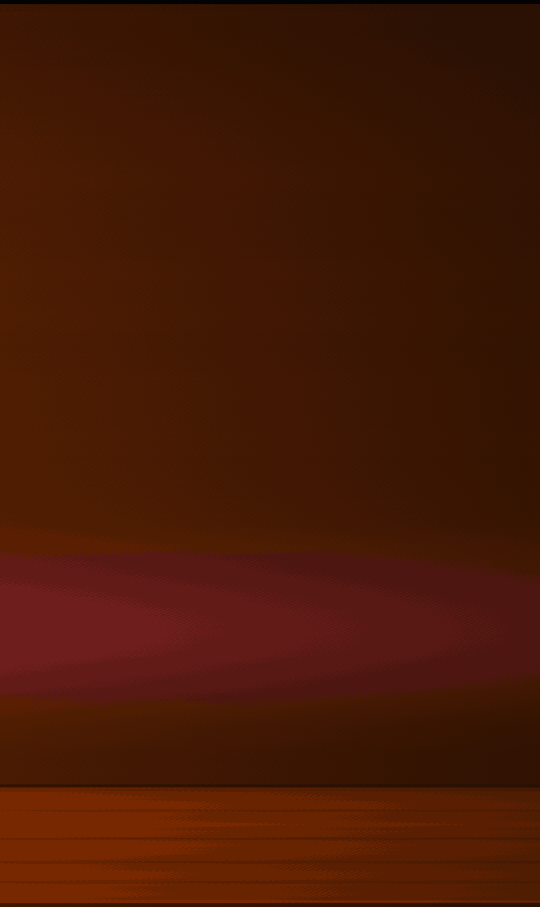
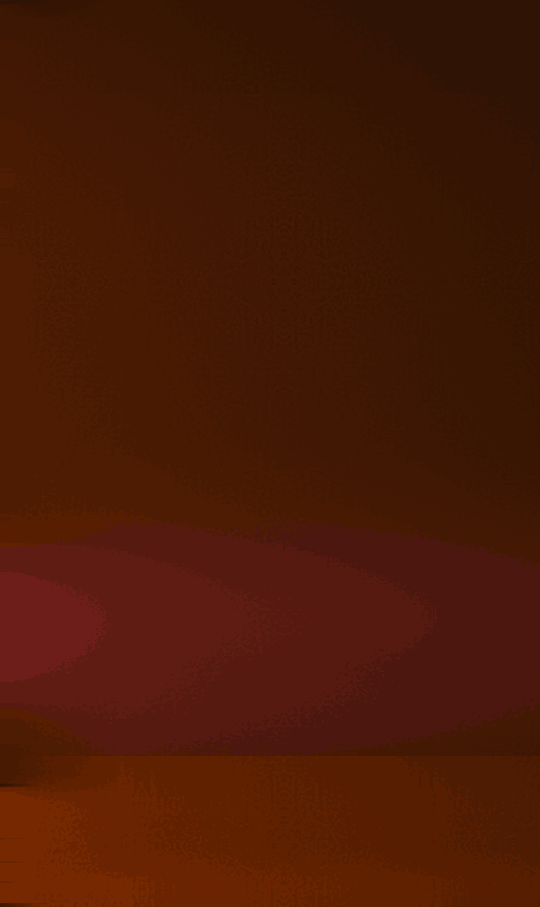
No stretched sides: plain closet walls past the edges, and wide windows fill with the room
The side walls past the room no longer drag each row's edge pixels outward (which made streaks): the colour is smoothed down the rows and settles to an even wall with real 2D grain from a clean patch of the wall. A wide window now fills its width with the room itself, trimming up to 8% off the desk's front edge, before any side wall shows.

Changed region(s): [[0.0593, 0.8335, 1.0, 0.8953], [0.0, 0.0, 1.0, 0.0309], [0.0296, 0.9879, 1.0, 1.0]]

diff --git a/scripts/mockup-room.js b/scripts/mockup-room.js
@@ -77,15 +77,38 @@ function lampOff(img) {
   return out;
 }
 
-/** The closet's side walls and the desk carried on past the edges: each row's edge colour, darkening outward. */
+/**
+ * The closet's side walls and the desk carried on past the edges, without smearing: each row's colour at the
+ * edge, smoothed down the rows (so no row's dither turns into a stripe), darkening outward, with real 2D grain
+ * from a clean patch of the left side wall laid over it (its fine texture only, the patch's light taken off).
+ */
 function side(img, left) {
-  const out = Buffer.alloc(SW * H * 3);
-  for (let y = 0; y < H; y++) {
-    const e = [0, 0, 0];
-    for (let k = 0; k < 6; k++) { const x = left ? k : W - 1 - k; for (let c = 0; c < 3; c++) e[c] += img[(y * W + x) * 3 + c] / 6; }
-    for (let k = 0; k < SW; k++) {
-      const X = left ? SW - 1 - k : k, d = 1 - 0.35 * Math.min(1, k / SW);
-      for (let c = 0; c < 3; c++) out[(y * SW + X) * 3 + c] = clamp(Math.round(e[c] * d + hash(k, y, left ? 1 : 2) * 4), 0, 255);
+  const out = Buffer.alloc(SW * H * 3), deskY = Math.round(DESK_Y * K);
+  const at = (x, y, c) => img[(clamp(y, 0, H - 1) * W + clamp(x, 0, W - 1)) * 3 + c];
+  // the edge colour per row
+  const edge = [];
+  for (let y = 0; y < H; y++) { const e = [0, 0, 0]; for (let k = 0; k < 8; k++) { const x = left ? k : W - 1 - k; for (let c = 0; c < 3; c++) e[c] += at(x, y, c) / 8; } edge.push(e); }
+  // smoothed down the rows, the wall and the desk apart
+  const smooth = (R) => edge.map((_, y) => {
+    const s = [0, 0, 0]; let n = 0;
+    for (let k = y - R; k <= y + R; k++) { if (k < 0 || k >= H || (k < deskY) !== (y < deskY)) continue; for (let c = 0; c < 3; c++) s[c] += edge[k][c]; n++; }
+    return s.map((v) => v / n);
+  });
+  // near the edge the wall follows the room's own light; a little way out it's an even, plain wall
+  const near = smooth(14), far = smooth(90);
+  // the grain: a clean stretch of the left side wall (art px), mirrored to tile, minus its local mean
+  const P = [8, 8, 150, 290], pw = P[2] - P[0], ph = P[3] - P[1];
+  const mir = (v, n) => { const m = ((v % (2 * n)) + 2 * n) % (2 * n); return m < n ? m : 2 * n - 1 - m; };
+  const grain = (k, y, c) => {
+    const gx = P[0] + mir(k, pw), gy = P[1] + mir(y, ph);
+    let s = 0; for (let dy = -4; dy <= 4; dy++) for (let dx = -4; dx <= 4; dx++) s += at(gx + dx, gy + dy, c);
+    return clamp(at(gx, gy, c) - s / 81, -12, 12);
+  };
+  for (let y = 0; y < H; y++) for (let k = 0; k < SW; k++) {
+    const X = left ? SW - 1 - k : k, d = 1 - 0.3 * Math.min(1, k / SW), blend = Math.min(1, k / 40), t = Math.min(1, k / 120);
+    for (let c = 0; c < 3; c++) {
+      const v = (near[y][c] * (1 - t) + far[y][c] * t + grain(k, y, c) * 0.8 * blend) * d;
+      out[(y * SW + X) * 3 + c] = clamp(Math.round(edge[y][c] * (1 - blend) + v * blend), 0, 255);
     }
   }
   return out;

diff --git a/components/cinema/CinemaScene.tsx b/components/cinema/CinemaScene.tsx
@@ -299,13 +299,16 @@ const SIDE_PX = art.sides.px;
 function standingStage(vw: number, vh: number): Stage {
   const { width: W, height: H } = art.size;
   const [fx] = art.focalPoint;
-  const scale = Math.max(vh / H, vw / (W + 2 * SIDE_PX));
+  // a wide window crops a little off the desk's front (up to OVERFLOW of the height) before it shows the
+  // closet's side walls carried on past the room
+  const OVERFLOW = 0.08;
+  const scale = Math.max(vh / H, Math.min(vw / W, (vh * (1 + OVERFLOW)) / H), vw / (W + 2 * SIDE_PX));
   const w = W * scale;
   const h = H * scale;
   const side = SIDE_PX * scale;
   const centred = vw / 2 - (fx / 100) * w;
   const x = w >= vw ? Math.min(0, Math.max(vw - w, centred)) : Math.min(side, Math.max(vw - w - side, centred));
-  const y = Math.min(0, Math.max(vh - h, (vh - h) / 2));
+  const y = Math.min(0, Math.max(vh - h, (vh - h) * 0.15)); // what's cropped comes mostly off the bottom
   return { x, y, w, h, scale };
 }
 
